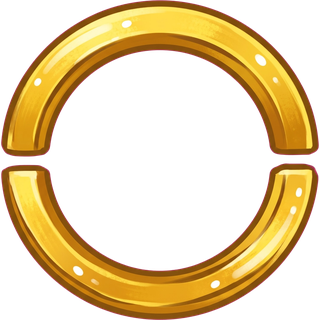
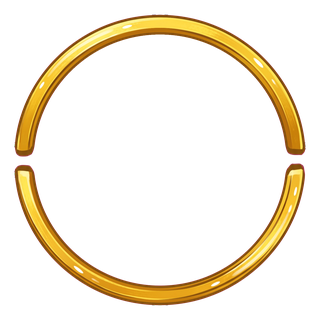
Tuto, bug réel (APK) : on ne pouvait pas taper à l'intérieur du rond — sur téléphone une image ignore pointerEvents ; chaque image du guide (et la lueur de l'incubateur) est maintenant dans une vue transparente au doigt ; rond aminci à 40 % (bande resserrée, contour gardé) ; contrôle + 1 piège ; mém

diff --git a/mobile/src/components/GuideTuto.js b/mobile/src/components/GuideTuto.js
@@ -1,5 +1,6 @@
 // 🎓 GUIDE DU TUTORIEL (21/10, demande de l'auteur) : un REPÈRE autour de ce qu'il faut toucher, et UNE phrase.
-//  - ROND doré (image Gemini 110) qui TOURNE doucement ; CARRÉ doré (image 112, remonté en 12 morceaux pour s'étirer sans
+//  - ROND doré (image Gemini 110, AMINCI à 40 % de son épaisseur le 21/10 — demande de l'auteur : la bande resserrée vers son
+//    milieu, contour et reflets gardés) qui TOURNE doucement ; CARRÉ doré (image 112, remonté en 12 morceaux pour s'étirer sans
 //    déformer ses coins) qui RESPIRE ;
 //  - deux ÉTOILES (image 111) en haut à droite, qui scintillent chacune à leur rythme et NE tournent PAS avec le rond ;
 //  - une lueur dorée derrière (ajoutée par le jeu, comme convenu) ;
@@ -100,35 +101,38 @@ export default function GuideTuto({ rect, forme = 'rond', texte, onFermer, ecran
   // Les étoiles SUR le rond, en haut à droite (comme le dessin de l'auteur) ; au coin haut-droit du carré.
   const etoiles = forme === 'rond' ? { x: cx + 0.707 * (D / 2), y: cy - 0.707 * (D / 2) } : { x: boite.x + boite.l, y: boite.y };
 
+  // ⚠ BUG RÉEL (21/10, auteur : « on ne peut pas cliquer à l'intérieur du rond ») : sur TÉLÉPHONE, `pointerEvents` n'est
+  // respecté que par les VUES — une IMAGE l'ignore et prend le doigt (le banc web, lui, le respecte : 20/20 au banc, 0 sur
+  // l'APK). Chaque image décorative est donc posée DANS une vue transparente au doigt ; le texte aussi.
+  const deco = (style, enfant, key) => <Animated.View key={key} style={[{ position: 'absolute', zIndex, pointerEvents: 'none' }, style]}>{enfant}</Animated.View>;
   return (
     <>
       {/* Lueur dorée derrière le repère. */}
-      <Animated.Image source={IMG.lueur} resizeMethod="scale" resizeMode="stretch" style={{ position: 'absolute', zIndex, pointerEvents: 'none',
-        left: boite.x - boite.l * 0.25, top: boite.y - boite.h * 0.25, width: boite.l * 1.5, height: boite.h * 1.5,
-        opacity: Animated.multiply(apparition, respire.interpolate({ inputRange: [0, 1], outputRange: [0.35, 0.6] })) }} />
-      {forme === 'rond' ? (
-        <Animated.Image source={IMG.rond} resizeMethod="scale" resizeMode="contain" style={{ position: 'absolute', zIndex, pointerEvents: 'none',
-          left: boite.x, top: boite.y, width: boite.l, height: boite.h, opacity: apparition,
-          transform: [{ rotate: tour.interpolate({ inputRange: [0, 1], outputRange: ['0deg', '360deg'] }) }] }} />
-      ) : (
-        <Animated.View style={{ position: 'absolute', zIndex, pointerEvents: 'none', left: boite.x, top: boite.y, width: boite.l, height: boite.h,
-          opacity: apparition, transform: [{ scale: respire.interpolate({ inputRange: [0, 1], outputRange: [1, 1.03] }) }] }}>
-          <CadreTuto l={boite.l} h={boite.h} />
-        </Animated.View>
-      )}
+      {deco({ left: boite.x - boite.l * 0.25, top: boite.y - boite.h * 0.25, width: boite.l * 1.5, height: boite.h * 1.5,
+        opacity: Animated.multiply(apparition, respire.interpolate({ inputRange: [0, 1], outputRange: [0.35, 0.6] })) },
+        <Image source={IMG.lueur} resizeMethod="scale" resizeMode="stretch" style={{ width: boite.l * 1.5, height: boite.h * 1.5 }} />, 'lueur')}
+      {forme === 'rond'
+        ? deco({ left: boite.x, top: boite.y, width: boite.l, height: boite.h, opacity: apparition,
+          transform: [{ rotate: tour.interpolate({ inputRange: [0, 1], outputRange: ['0deg', '360deg'] }) }] },
+          <Image source={IMG.rond} resizeMethod="scale" resizeMode="contain" style={{ width: boite.l, height: boite.h }} />, 'rond')
+        : deco({ left: boite.x, top: boite.y, width: boite.l, height: boite.h, opacity: apparition,
+          transform: [{ scale: respire.interpolate({ inputRange: [0, 1], outputRange: [1, 1.03] }) }] },
+          <CadreTuto l={boite.l} h={boite.h} />, 'carre')}
       {/* Les étoiles : à part du rond (elles ne tournent pas avec lui), chacune son rythme. */}
-      <Animated.Image source={IMG.etoile} resizeMethod="scale" resizeMode="contain" style={{ position: 'absolute', zIndex, pointerEvents: 'none',
-        left: etoiles.x - 16, top: etoiles.y - 14, width: 28, height: 28,
+      {deco({ left: etoiles.x - 16, top: etoiles.y - 14, width: 28, height: 28,
         opacity: Animated.multiply(apparition, scint1.interpolate({ inputRange: [0, 1], outputRange: [0.55, 1] })),
-        transform: [{ scale: scint1.interpolate({ inputRange: [0, 1], outputRange: [0.7, 1.15] }) }] }} />
-      <Animated.Image source={IMG.etoile} resizeMethod="scale" resizeMode="contain" style={{ position: 'absolute', zIndex, pointerEvents: 'none',
-        left: etoiles.x + 6, top: etoiles.y + 8, width: 17, height: 17,
+        transform: [{ scale: scint1.interpolate({ inputRange: [0, 1], outputRange: [0.7, 1.15] }) }] },
+        <Image source={IMG.etoile} resizeMethod="scale" resizeMode="contain" style={{ width: 28, height: 28 }} />, 'etoile1')}
+      {deco({ left: etoiles.x + 6, top: etoiles.y + 8, width: 17, height: 17,
         opacity: Animated.multiply(apparition, scint2.interpolate({ inputRange: [0, 1], outputRange: [0.4, 1] })),
-        transform: [{ scale: scint2.interpolate({ inputRange: [0, 1], outputRange: [0.6, 1.2] }) }] }} />
-      {/* La bulle : transparente au toucher, sauf la petite croix. */}
+        transform: [{ scale: scint2.interpolate({ inputRange: [0, 1], outputRange: [0.6, 1.2] }) }] },
+        <Image source={IMG.etoile} resizeMethod="scale" resizeMode="contain" style={{ width: 17, height: 17 }} />, 'etoile2')}
+      {/* La bulle : transparente au toucher, sauf la petite croix (le texte est dans une VUE transparente au doigt). */}
       <Animated.View style={[styles.bulle, { zIndex, left: bulleLeft, top: bulleTop, width: BL, minHeight: BH, opacity: apparition, pointerEvents: 'box-none' }]}>
         {/* Espace INSÉCABLE avant « ! ? : ; » : au banc, le « ! » partait seul à la ligne. */}
-        <Text style={[styles.texte, { pointerEvents: 'none' }]}>{String(texte || '').replace(/ ([!?:;])/g, '\u00A0$1')}</Text>
+        <View style={{ pointerEvents: 'none' }}>
+          <Text style={styles.texte}>{String(texte || '').replace(/ ([!?:;])/g, '\u00A0$1')}</Text>
+        </View>
         <TouchableOpacity onPress={onFermer} hitSlop={{ top: 10, bottom: 10, left: 10, right: 10 }} style={styles.croix} accessibilityLabel="Fermer le conseil">
           <Text style={styles.croixTexte}>✕</Text>
         </TouchableOpacity>

diff --git a/mobile/tools/audit-quetes.js b/mobile/tools/audit-quetes.js
@@ -4585,11 +4585,16 @@ function auditTutoriel() {
   // seule la croix le prend.
   const G = lire('src/components/GuideTuto.js').replace(/\/\/[^\n]*/g, '').replace(/\{\/\*[\s\S]*?\*\/\}/g, '');
   if (G.includes('StyleSheet.absoluteFill') || /flex:\s*1/.test(G)) pb.push('le guide du tuto a un conteneur plein écran (il avalerait les taps)');
-  if (!G.includes("pointerEvents: 'box-none'") || !G.includes("styles.texte, { pointerEvents: 'none' }") || !G.includes('onPress={onFermer}')) pb.push('la bulle du tuto capte le doigt, ou n\'a plus sa petite croix');
+  if (!G.includes("pointerEvents: 'box-none'") || !G.includes("<View style={{ pointerEvents: 'none' }}>\n          <Text style={styles.texte}>") || !G.includes('onPress={onFermer}')) pb.push('la bulle du tuto capte le doigt, ou n\'a plus sa petite croix');
+  // ⚠ Bug réel du 21/10 (APK : « on ne peut pas cliquer à l'intérieur du rond ») : sur téléphone, une IMAGE ignore `pointerEvents`
+  // (le banc web, lui, le respecte). Toute image du guide est DANS une vue transparente au doigt — aucune Animated.Image.
+  if (G.includes('Animated.Image') || !G.includes("const deco = (style, enfant, key) => <Animated.View key={key} style={[{ position: 'absolute', zIndex, pointerEvents: 'none' }, style]}>{enfant}</Animated.View>;")) pb.push('une image du guide du tuto n\'est plus dans une vue transparente au doigt (sur téléphone, elle bloque les taps)');
+  if (!Cl.includes('<Image source={LUEUR_OR_INCUBATEUR} resizeMode="contain" style={{ width: 132, height: 132 }} />')) pb.push('la lueur de l\'incubateur n\'est plus dans une vue transparente au doigt');
   if (!G.includes("outputRange: ['0deg', '360deg']") || !G.includes('<CadreTuto l={boite.l} h={boite.h} />')) pb.push('le rond ne tourne plus, ou le carré a disparu');
   // Les étoiles ne tournent PAS avec le rond (demande de l'auteur) : elles ne sont pas dans l'élément qui tourne.
-  const iRond = G.indexOf("source={IMG.rond}"), iEtoile = G.indexOf("source={IMG.etoile}");
-  if (iRond < 0 || iEtoile < 0 || G.slice(iRond, iEtoile).includes('</Animated.View>') === false && G.slice(iRond, iEtoile).includes('<Animated.Image source={IMG.etoile}')) pb.push('les étoiles tournent avec le rond');
+  const iEt = G.indexOf("source={IMG.etoile}");
+  const blocEtoiles = iEt >= 0 ? G.slice(G.lastIndexOf('{deco(', iEt), G.indexOf("'etoile2')", iEt)) : '';
+  if (iEt < 0 || blocEtoiles.includes('rotate') || !G.includes("source={IMG.rond}")) pb.push('les étoiles tournent avec le rond');
   // Branchements.
   if (!Cl.includes('<GuideTuto rect={rectTuto} forme={ETAPES[etapeEcran].forme}') || !Cl.includes("if (etapeTutoRef.current === 'taper') { tapsTutoRef.current += 1;")) pb.push('écran principal : le tuto n\'est plus branché');
   const Gr = lire('src/screens/games/GrimoireBoutique.js');

diff --git a/mobile/src/screens/games/ClickerScreen.js b/mobile/src/screens/games/ClickerScreen.js
@@ -4490,10 +4490,14 @@ export default function ClickerScreen({ onBack, onOpenOptions, onOpenQuests }) {
             <TouchableOpacity ref={(r) => { ciblesTutoRef.current.incubateur = r; }} style={styles.incubatorBtn} onPress={() => setIncubatorOpen(true)}>
               {/* Œuf dans l'incubateur : une LUEUR DORÉE (image, deux couches) qui respire avec l'icône. ⚠ Avant : une ombre
                   colorée — sur iPhone elle restait à peine visible (photo de l'auteur, 20/10), et Android ne la dessinait pas. */}
+              {/* ⚠ Dans une VUE transparente au doigt : sur téléphone, une image ignore `pointerEvents` (bug du rond du tuto,
+                  21/10) — cette lueur déborde du bouton et aurait pu prendre le doigt au calendrier ou au 🛠. */}
               {incubatingEgg ? [0, 1].map((k) => (
-                <Animated.Image key={k} source={LUEUR_OR_INCUBATEUR} resizeMode="contain" style={[styles.incubatorLueur, { pointerEvents: 'none',
+                <Animated.View key={k} style={[styles.incubatorLueur, { pointerEvents: 'none',
                   opacity: incubatorPulse.interpolate({ inputRange: [0, 1], outputRange: [0.8, 1] }),
-                  transform: [{ scale: incubatorPulse.interpolate({ inputRange: [0, 1], outputRange: [1, 1.2] }) }] }]} />
+                  transform: [{ scale: incubatorPulse.interpolate({ inputRange: [0, 1], outputRange: [1, 1.2] }) }] }]}>
+                  <Image source={LUEUR_OR_INCUBATEUR} resizeMode="contain" style={{ width: 132, height: 132 }} />
+                </Animated.View>
               )) : null}
               <Animated.View
                 style={[

diff --git a/mobile/tools/verifier-controles.js b/mobile/tools/verifier-controles.js
@@ -611,6 +611,8 @@ const SABOTAGES = [
     remplace("refPrix={id === 'pacte' ?", "refPrix={id === 'tapPower' ?")],
   ['auditTutoriel', path.join(RACINE, 'src/games/clicker/tutoriel.js'), "les runes s'expliquent dès la 1re poudre (l'auteur : à la 3ᵉ)",
     remplace('export const POUDRE_CONSEIL_RUNES = 3;', 'export const POUDRE_CONSEIL_RUNES = 1;')],
+  ['auditTutoriel', path.join(RACINE, 'src/components/GuideTuto.js'), "le rond redevient une Animated.Image (sur téléphone : impossible de taper à l'intérieur, bug du 21/10)",
+    remplace('<Image source={IMG.rond} resizeMethod="scale"', '<Animated.Image source={IMG.rond} resizeMethod="scale"')],
   ['auditTutoriel', path.join(RACINE, 'src/components/GuideTuto.js'), "la petite croix ne ferme plus le conseil",
     remplace('onPress={onFermer}', 'onPress={() => {}}')],
   ['auditIllustrationsFrere', path.join(RACINE, 'src/components/CreatureArt.js'), "Solarion perd son image (retour à l'emoji)",

diff --git a/mobile/CLICKER_ADVENTURE_STATE.md b/mobile/CLICKER_ADVENTURE_STATE.md
@@ -4559,6 +4559,13 @@ l'auteur teste en jeu (seuil de sa sauvegarde en cours relevé, œuf en cours re
   rune », puis INVENTAIRE pour l'équiper).
 - Banc : `menu&tuto=1&vus=…`, `grimoire&tuto=1&vus=…`, `combat-niveaux&tuto=1`, exploration `?tuto=1&poudre=3` ; la
   sonde des taps accepte `PARAMS_SCENE=?tuto=1` (20/20 avec le conseil de l'œuf affiché). Contrôle `auditTutoriel` + 4 pièges.
+- ⚠ BUG RÉEL (21/10, APK : « on ne peut pas cliquer à l'intérieur du rond ») : sur TÉLÉPHONE, `pointerEvents` n'est respecté
+  que par les VUES — une IMAGE (Image, Animated.Image) l'ignore et prend le doigt. Le banc web, lui, le respecte (20/20 au banc,
+  0 sur l'APK) : il ne PEUT PAS voir ce bug. Règle : toute image décorative posée par-dessus quelque chose de touchable va DANS
+  une vue `pointerEvents: 'none'` (le guide : `deco(...)` ; la lueur de l'incubateur aussi). Contrôlé + piège. 16 autres images
+  du jeu portent `pointerEvents` sur une ligne : à revoir une par une si un « on ne peut pas toucher » revient.
+- Rond AMINCI (demande de l'auteur) sans nouvelle image : la bande resserrée vers son milieu à 40 % de son épaisseur
+  (rééchantillonnage radial : contour et reflets gardés).
 
 ### 🐛 BUGS OUVERTS (signalés par l'auteur, rapport du 14/10 13:40, étapes 72 à 86)
 1. ✅ CORRIGÉ le 17/10 (voir la section « JE GAGNE TOUT À PARTIR DE L'ÉTAPE 80 » plus haut). « À partir de l'étape 80 je gagne tous mes combats, même en Extrême ; étape 97 ; 3 200 Griffes non dépensées. »
